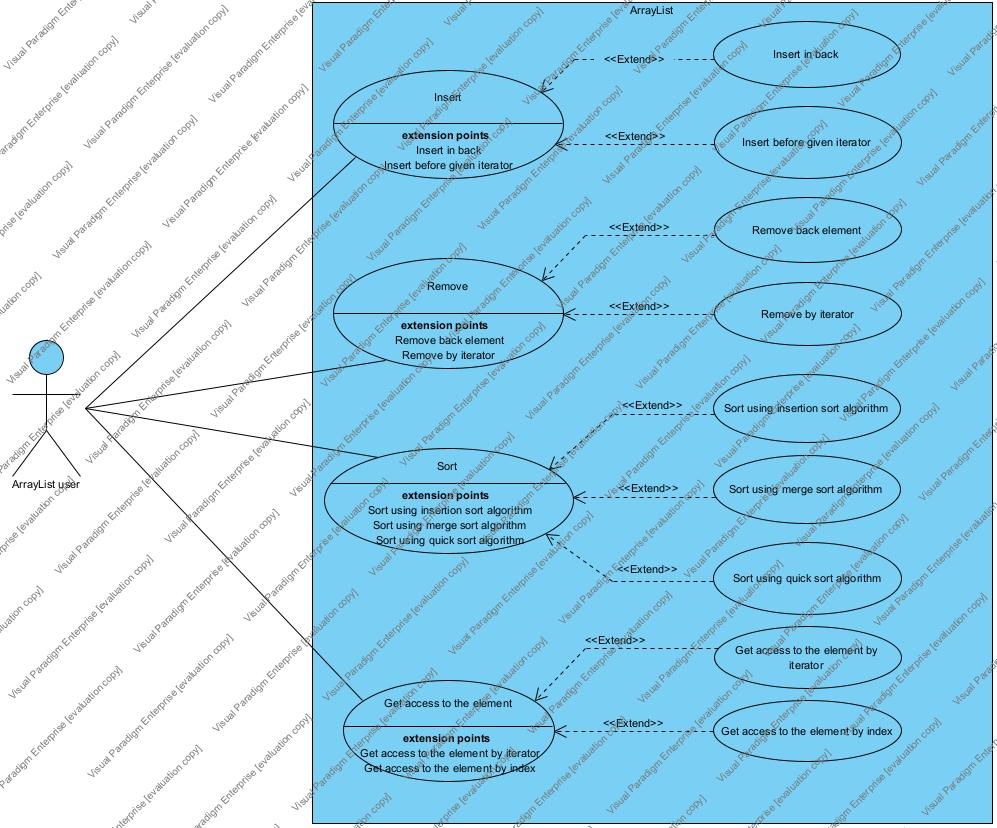
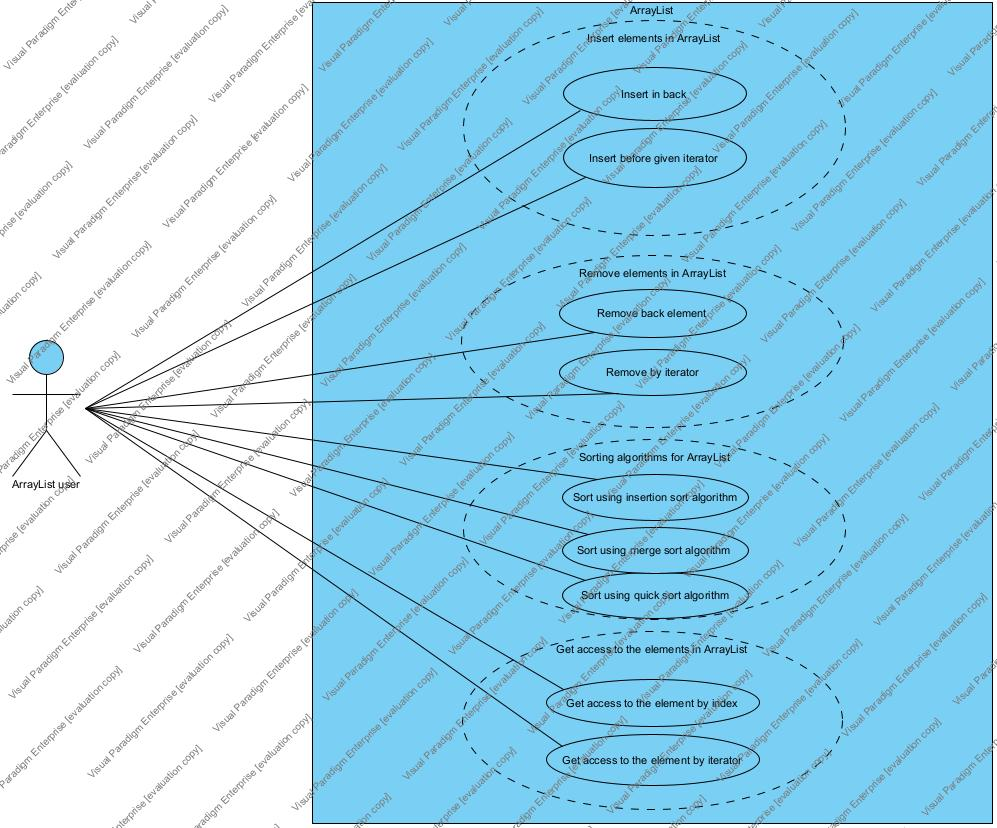
Changed use case diagrams and glossary

diff --git a/README.md b/README.md
@@ -12,4 +12,4 @@ Lab 3 :
 Simple doc scanner(OpenCV and tesseract OCR)
 # Semester 2
 Lab 1 :
-UML diagrams for Lab 1 for first semester
+UML diagrams for Lab 1 from first semester
